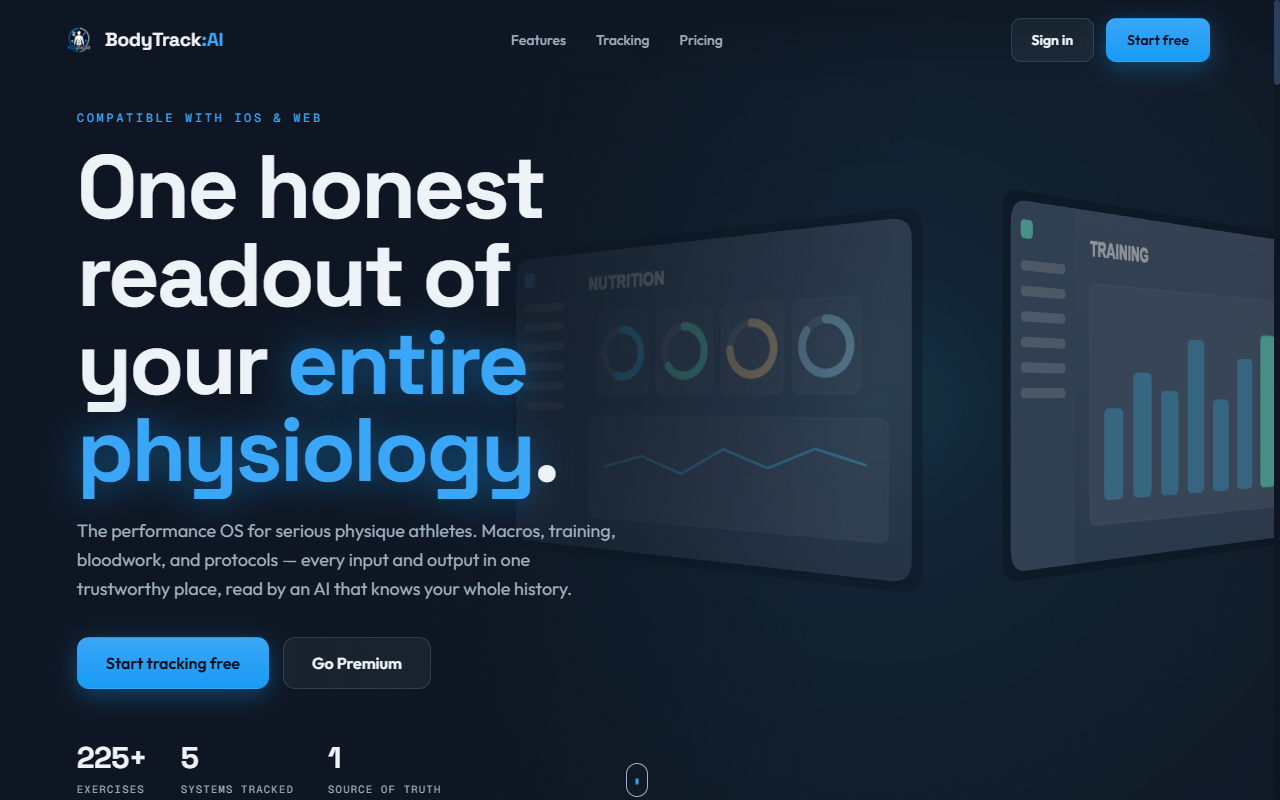
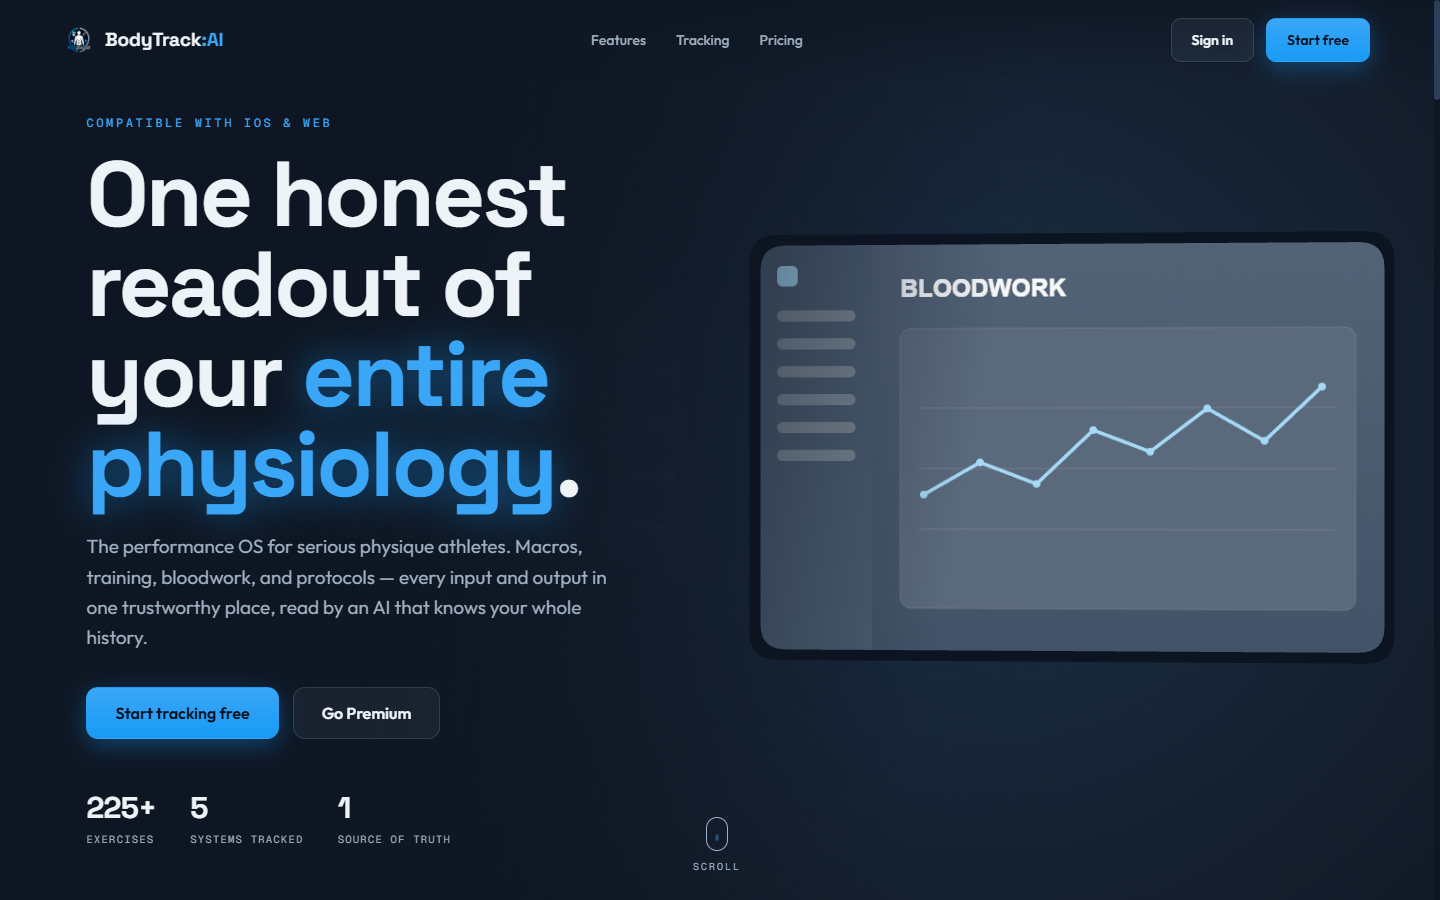
Refresh the library: all nine current projects, live repos, new screenshots

diff --git a/projects.html b/projects.html
@@ -75,7 +75,7 @@
               <img src="./media/autopilot-dashboard.png" alt="Autopilot for Windows dashboard" width="1280" height="800" loading="lazy" draggable="false" />
             </span>
             <span class="card-info">
-              <span class="lib-status">Active &middot; private build</span>
+              <span class="lib-status">Active &middot; open source</span>
               <span class="card-name">Autopilot for Windows</span>
               <span class="card-desc">Automated Twitch &rarr; Shorts pipeline with a GUI for everything.</span>
               <span class="lib-open">Open project &rarr;</span>
@@ -87,7 +87,7 @@
               <img src="./media/storyloom-hub.png" alt="The Storyloom hub with workflow templates" width="1280" height="800" loading="lazy" draggable="false" />
             </span>
             <span class="card-info">
-              <span class="lib-status">Active &middot; private build</span>
+              <span class="lib-status">Active &middot; open source</span>
               <span class="card-name">Storyloom</span>
               <span class="card-desc">An AI media hub &mdash; one node canvas for 2D, 3D, storyboard, and previz.</span>
               <span class="lib-open">Open project &rarr;</span>
@@ -96,11 +96,11 @@
 
           <button class="lib-card" data-dialog="dlg-sigil" type="button">
             <span class="card-thumb">
-              <img src="./media/sigil-tabletop.png" alt="Sigil multiplayer tabletop lobby" width="1280" height="800" loading="lazy" draggable="false" />
+              <img src="./media/sigil-landing.png" alt="Sigil multiplayer tabletop landing" width="1280" height="800" loading="lazy" draggable="false" />
             </span>
             <span class="card-info">
               <span class="lib-status">Playable &middot; open source</span>
-              <span class="card-name">Magic Table Tracker</span>
+              <span class="card-name">Sigil</span>
               <span class="card-desc">Online MTG tabletop &mdash; hidden zones enforced by Postgres.</span>
               <span class="lib-open">Open project &rarr;</span>
             </span>
@@ -112,8 +112,8 @@
             </span>
             <span class="card-info">
               <span class="lib-status">In development &middot; open source</span>
-              <span class="card-name">BodyTracker</span>
-              <span class="card-desc">Nutrition, lifts, bloodwork, and body metrics &mdash; web + iOS.</span>
+              <span class="card-name">BodyTrack:AI</span>
+              <span class="card-desc">Nutrition, lifts, bloodwork, and body metrics &mdash; web + iOS, read by an AI coach.</span>
               <span class="lib-open">Open project &rarr;</span>
             </span>
           </button>
@@ -131,14 +131,25 @@
           </button>
 
           <button class="lib-card" data-dialog="dlg-finance" type="button">
-            <span class="card-thumb card-thumb-type">
-              <span class="type-letter">F.</span>
-              <span class="type-stack">Next.js &middot; Local-first &middot; TypeScript</span>
+            <span class="card-thumb">
+              <img src="./media/morrow-overview.png" alt="Morrow overview with Safe to Spend" width="1280" height="800" loading="lazy" draggable="false" />
             </span>
             <span class="card-info">
-              <span class="lib-status">Active &middot; private build</span>
-              <span class="card-name">Finance Hub</span>
-              <span class="card-desc">A local-first personal-finance OS &mdash; subscriptions, spending, and insights.</span>
+              <span class="lib-status">Active &middot; open source</span>
+              <span class="card-name">Morrow</span>
+              <span class="card-desc">A calm personal-finance SaaS &mdash; spending, subscriptions, budgets, and Safe to Spend.</span>
+              <span class="lib-open">Open project &rarr;</span>
+            </span>
+          </button>
+
+          <button class="lib-card" data-dialog="dlg-agentic" type="button">
+            <span class="card-thumb">
+              <img src="./media/agentic-kanban.png" alt="Agentic OS Kanban command center" width="1280" height="800" loading="lazy" draggable="false" />
+            </span>
+            <span class="card-info">
+              <span class="lib-status">v0.3.0 &middot; open source</span>
+              <span class="card-name">Agentic OS</span>
+              <span class="card-desc">A local-first command center for coordinating multiple frontier-model agents.</span>
               <span class="lib-open">Open project &rarr;</span>
             </span>
           </button>
@@ -192,7 +203,7 @@
     <dialog class="project-dialog" id="dlg-autopilot" aria-labelledby="ttl-autopilot">
       <div class="dialog-inner">
         <div class="dialog-head">
-          <p class="eyebrow">Active &middot; private build</p>
+          <p class="eyebrow">Active &middot; open source</p>
           <button class="dialog-close" type="button" aria-label="Close">&times;</button>
         </div>
         <h3 id="ttl-autopilot">Autopilot for Windows</h3>
@@ -219,7 +230,7 @@
         </p>
         <p class="dialog-stack">Python &middot; FastAPI &middot; React &middot; FFmpeg &middot; Whisper</p>
         <div class="dialog-actions">
-          <span class="inline-link" style="text-decoration: none; cursor: default;">runs locally &mdash; not published</span>
+          <a class="button button-primary" href="https://github.com/colemclauchlan/autopilot-windows" target="_blank" rel="noreferrer">View source</a>
         </div>
       </div>
     </dialog>
@@ -227,11 +238,12 @@
     <dialog class="project-dialog" id="dlg-storyloom" aria-labelledby="ttl-storyloom">
       <div class="dialog-inner">
         <div class="dialog-head">
-          <p class="eyebrow">Active &middot; private build</p>
+          <p class="eyebrow">Active &middot; open source</p>
           <button class="dialog-close" type="button" aria-label="Close">&times;</button>
         </div>
         <h3 id="ttl-storyloom">Storyloom</h3>
         <div class="dialog-media">
+          <img src="./media/storyloom-graph.png" alt="The Storyloom graph canvas running a full pipeline" loading="lazy" />
           <img src="./media/storyloom-hub.png" alt="The Storyloom hub tab with workflow templates" loading="lazy" />
         </div>
         <p>
@@ -250,7 +262,7 @@
         </p>
         <p class="dialog-stack">React &middot; Vite &middot; React Flow &middot; Three.js &middot; Express</p>
         <div class="dialog-actions">
-          <span class="inline-link" style="text-decoration: none; cursor: default;">runs locally &mdash; not published</span>
+          <a class="button button-primary" href="https://github.com/colemclauchlan/storyloom" target="_blank" rel="noreferrer">View source</a>
         </div>
       </div>
     </dialog>
@@ -291,7 +303,7 @@
           <p class="eyebrow">In development &middot; open source</p>
           <button class="dialog-close" type="button" aria-label="Close">&times;</button>
         </div>
-        <h3 id="ttl-bodytracker">BodyTracker</h3>
+        <h3 id="ttl-bodytracker">BodyTrack:AI</h3>
         <div class="dialog-media">
           <img src="./media/bodytracker.png" alt="BodyTracker landing page" loading="lazy" />
         </div>
@@ -344,28 +356,61 @@
     <dialog class="project-dialog" id="dlg-finance" aria-labelledby="ttl-finance">
       <div class="dialog-inner">
         <div class="dialog-head">
-          <p class="eyebrow">Active &middot; private build</p>
+          <p class="eyebrow">Active &middot; open source</p>
           <button class="dialog-close" type="button" aria-label="Close">&times;</button>
         </div>
-        <h3 id="ttl-finance">Finance Hub</h3>
+        <h3 id="ttl-finance">Morrow</h3>
+        <div class="dialog-media">
+          <img src="./media/morrow-overview.png" alt="Morrow overview — Safe to Spend and upcoming obligations (sample data)" loading="lazy" />
+          <img src="./media/morrow-recurring.png" alt="Morrow recurring — subscriptions and renewal timing (sample data)" loading="lazy" />
+        </div>
         <p>
-          A local-first personal-finance OS. A subscription ledger tracks every
-          recurring charge &mdash; what it costs, when it renews, and the door out
-          &mdash; while a spending module pulls transactions from Gmail receipts
-          and imported bank CSVs, tracks credit-card status, and computes
-          analytics: overview, recurring, online vs. IRL services, a
-          &ldquo;cancel these and save&rdquo; callout, cards &amp; statements, and
-          insights.
+          A calm personal-finance SaaS: spending, recurring charges, budgets,
+          goals, accounts, investments, and an explainable Safe to Spend estimate
+          in one place. Safe to Spend is withheld unless a cash balance was seen
+          in the last 48 hours &mdash; the app would rather say nothing than
+          guess.
         </p>
         <p>
-          It runs entirely on your machine &mdash; no cloud, no accounts, no
-          telemetry. Bank CSVs are parsed and normalized to merchants locally, and
-          recurring charges are inferred only from real billing evidence, never
-          marketing email.
+          Two deliberate deployment modes: fully local (zero credentials, JSON
+          persistence, CSV import, the complete product UI) or SaaS &mdash;
+          Supabase Auth/Postgres tenancy, Stripe Billing, and consent-based
+          Canadian bank sync through Plaid with AES-sealed tokens. Production
+          fails closed unless the data mode is explicit.
         </p>
-        <p class="dialog-stack">Next.js &middot; TypeScript &middot; Local-first</p>
+        <p class="dialog-stack">Next.js &middot; Supabase &middot; Stripe &middot; Plaid</p>
         <div class="dialog-actions">
-          <span class="inline-link" style="text-decoration: none; cursor: default;">runs locally &mdash; private (handles real financial data)</span>
+          <a class="button button-primary" href="https://github.com/colemclauchlan/morrow" target="_blank" rel="noreferrer">View source</a>
+        </div>
+      </div>
+    </dialog>
+
+    <dialog class="project-dialog" id="dlg-agentic" aria-labelledby="ttl-agentic">
+      <div class="dialog-inner">
+        <div class="dialog-head">
+          <p class="eyebrow">v0.3.0 &middot; open source</p>
+          <button class="dialog-close" type="button" aria-label="Close">&times;</button>
+        </div>
+        <h3 id="ttl-agentic">Agentic OS</h3>
+        <div class="dialog-media">
+          <img src="./media/agentic-kanban.png" alt="Agentic OS Kanban command center in the phosphor-green terminal theme" loading="lazy" />
+        </div>
+        <p>
+          A local-first Windows desktop command center for coordinating several
+          frontier-model agents on one project: a Kanban task surface, active-agent
+          visibility, durable messages and decisions, and a GitHub-backed project
+          catalog &mdash; wrapped in a near-black, phosphor-green terminal theme.
+        </p>
+        <p>
+          The coordination kernel is the interesting part: reproducible context
+          packs for every run, atomic resource leases with fencing tokens so agents
+          can't clobber each other, an append-only hash-chained SQLite journal, and
+          encrypted (AES-256-GCM) profile sync so a second machine can adopt the
+          same setup through a private repo.
+        </p>
+        <p class="dialog-stack">Electron &middot; TypeScript &middot; React &middot; SQLite</p>
+        <div class="dialog-actions">
+          <a class="button button-primary" href="https://github.com/colemclauchlan/agentic-os" target="_blank" rel="noreferrer">View source</a>
         </div>
       </div>
     </dialog>

diff --git a/index.html b/index.html
@@ -94,13 +94,13 @@
 
           <p class="hero-rail" aria-label="Highlights">
             <span>TokenHub — live on Windows taskbars</span>
-            <span>4 open-source repos</span>
+            <span>10 open-source repos</span>
             <span>Twitch &rarr; Shorts, 4 platforms</span>
             <span>Web + iOS, one codebase</span>
           </p>
         </div>
 
-        <p class="stage-caption"><span class="stat-dot">&#9679;</span> online &middot; 7 projects active &middot; always building</p>
+        <p class="stage-caption"><span class="stat-dot">&#9679;</span> online &middot; 9 projects active &middot; always building</p>
       </section>
 
       <section class="section" id="work">
@@ -151,23 +151,23 @@
           </div>
           <div class="rail-viewport">
             <div class="rail-track" data-rail>
-              <div class="work-card">
+              <a class="work-card" href="https://github.com/colemclauchlan/autopilot-windows" target="_blank" rel="noreferrer">
                 <span class="card-thumb">
                   <img src="./media/autopilot-dashboard.png" alt="Autopilot for Windows dashboard" width="1280" height="800" loading="lazy" draggable="false" />
                 </span>
                 <span class="card-info">
                   <span class="card-name">Autopilot for Windows</span>
                   <span class="card-desc">Automated Twitch &rarr; Shorts pipeline, ported to Windows and rebuilt with a full GUI &mdash; agent missions, style cloning, 4-platform publishing.</span>
-                  <span class="card-foot">private build</span>
+                  <span class="card-foot">github.com/colemclauchlan/autopilot-windows</span>
                 </span>
-              </div>
+              </a>
 
               <a class="work-card" href="https://github.com/colemclauchlan/SigilMTG" target="_blank" rel="noreferrer">
                 <span class="card-thumb">
-                  <img src="./media/sigil-tabletop.png" alt="Magic Table Tracker virtual tabletop" width="1280" height="800" loading="lazy" draggable="false" />
+                  <img src="./media/sigil-landing.png" alt="Sigil virtual tabletop landing" width="1280" height="800" loading="lazy" draggable="false" />
                 </span>
                 <span class="card-info">
-                  <span class="card-name">Magic Table Tracker</span>
+                  <span class="card-name">Sigil</span>
                   <span class="card-desc">Online MTG tabletop &mdash; realtime multiplayer where hidden zones are enforced by Postgres, not the client.</span>
                   <span class="card-foot">github.com/colemclauchlan/SigilMTG</span>
                 </span>
@@ -178,8 +178,8 @@
                   <img src="./media/bodytracker.png" alt="BodyTracker landing page" width="1280" height="800" loading="lazy" draggable="false" />
                 </span>
                 <span class="card-info">
-                  <span class="card-name">BodyTracker</span>
-                  <span class="card-desc">Nutrition, lifts, bloodwork, and body metrics &mdash; web and iOS from one codebase.</span>
+                  <span class="card-name">BodyTrack:AI</span>
+                  <span class="card-desc">Nutrition, lifts, bloodwork, and body metrics &mdash; web and iOS from one codebase, read by an AI coach.</span>
                   <span class="card-foot">github.com/colemclauchlan/BodyTrackAI</span>
                 </span>
               </a>
@@ -195,28 +195,38 @@
                 </span>
               </a>
 
-              <div class="work-card">
+              <a class="work-card" href="https://github.com/colemclauchlan/storyloom" target="_blank" rel="noreferrer">
                 <span class="card-thumb">
-                  <img src="./media/storyloom-hub.png" alt="The Storyloom AI node canvas hub" width="1280" height="800" loading="lazy" draggable="false" />
+                  <img src="./media/storyloom-graph.png" alt="The Storyloom AI node canvas graph" width="1280" height="800" loading="lazy" draggable="false" />
                 </span>
                 <span class="card-info">
                   <span class="card-name">Storyloom</span>
                   <span class="card-desc">An AI media hub &mdash; one node canvas for 2D, 3D, storyboard, and previz, wired into Blender and After Effects.</span>
-                  <span class="card-foot">private build</span>
+                  <span class="card-foot">github.com/colemclauchlan/storyloom</span>
                 </span>
-              </div>
+              </a>
 
-              <div class="work-card">
-                <span class="card-thumb card-thumb-type">
-                  <span class="type-letter">F.</span>
-                  <span class="type-stack">Next.js &middot; Local-first &middot; TypeScript</span>
+              <a class="work-card" href="https://github.com/colemclauchlan/agentic-os" target="_blank" rel="noreferrer">
+                <span class="card-thumb">
+                  <img src="./media/agentic-kanban.png" alt="Agentic OS Kanban command center" width="1280" height="800" loading="lazy" draggable="false" />
                 </span>
                 <span class="card-info">
-                  <span class="card-name">Finance Hub</span>
-                  <span class="card-desc">A local-first personal-finance OS &mdash; subscription ledger, spending analytics, and bank-CSV import.</span>
-                  <span class="card-foot">private build</span>
+                  <span class="card-name">Agentic OS</span>
+                  <span class="card-desc">A local-first command center for multi-agent projects &mdash; Kanban tasks, resource leases, and a hash-chained work journal.</span>
+                  <span class="card-foot">github.com/colemclauchlan/agentic-os</span>
                 </span>
-              </div>
+              </a>
+
+              <a class="work-card" href="https://github.com/colemclauchlan/morrow" target="_blank" rel="noreferrer">
+                <span class="card-thumb">
+                  <img src="./media/morrow-overview.png" alt="Morrow overview with Safe to Spend" width="1280" height="800" loading="lazy" draggable="false" />
+                </span>
+                <span class="card-info">
+                  <span class="card-name">Morrow</span>
+                  <span class="card-desc">A calm personal-finance SaaS &mdash; spending, subscriptions, budgets, goals, and an explainable Safe to Spend.</span>
+                  <span class="card-foot">github.com/colemclauchlan/morrow</span>
+                </span>
+              </a>
 
               <a class="work-card" href="https://tokenhub-ten.vercel.app" target="_blank" rel="noreferrer">
                 <span class="card-thumb">
@@ -254,6 +264,18 @@
                 <span class="repo-desc">Cross-platform performance tracking. Next.js + Supabase; ships to web and iOS from one codebase.</span>
               </a>
             </li>
+            <li>
+              <a class="repo-link" href="https://github.com/colemclauchlan/autopilot-windows" target="_blank" rel="noreferrer">
+                <span class="repo-id"><span class="repo-name">autopilot-windows</span><span class="repo-meta">Python</span></span>
+                <span class="repo-desc">Automated Twitch &rarr; Shorts pipeline &mdash; discovery, AI scoring, vertical edit with karaoke subtitles, 4-platform publishing.</span>
+              </a>
+            </li>
+            <li>
+              <a class="repo-link" href="https://github.com/colemclauchlan/storyloom" target="_blank" rel="noreferrer">
+                <span class="repo-id"><span class="repo-name">storyloom</span><span class="repo-meta">TypeScript</span></span>
+                <span class="repo-desc">Visual node canvas for AI image / video / 3D / audio &mdash; storyboard-to-video pipelines with Blender &amp; AE bridges.</span>
+              </a>
+            </li>
           </ul>
           <ul class="repo-list">
             <li>
@@ -266,6 +288,18 @@
               <a class="repo-link" href="https://github.com/colemclauchlan/SigilMTG" target="_blank" rel="noreferrer">
                 <span class="repo-id"><span class="repo-name">SigilMTG</span><span class="repo-meta">JavaScript</span></span>
                 <span class="repo-desc">MTG table tracker and virtual tabletop. Vanilla JS, no build step; Supabase realtime multiplayer.</span>
+              </a>
+            </li>
+            <li>
+              <a class="repo-link" href="https://github.com/colemclauchlan/morrow" target="_blank" rel="noreferrer">
+                <span class="repo-id"><span class="repo-name">morrow</span><span class="repo-meta">TypeScript</span></span>
+                <span class="repo-desc">Calm personal-finance SaaS &mdash; spending, subscriptions, budgets, goals, and an explainable Safe to Spend.</span>
+              </a>
+            </li>
+            <li>
+              <a class="repo-link" href="https://github.com/colemclauchlan/agentic-os" target="_blank" rel="noreferrer">
+                <span class="repo-id"><span class="repo-name">agentic-os</span><span class="repo-meta">TypeScript</span></span>
+                <span class="repo-desc">Local-first Windows command center for coordinating multiple frontier-model agents on one project.</span>
               </a>
             </li>
           </ul>

diff --git a/README.md b/README.md
@@ -1,0 +1,13 @@
+# cole-portfolio
+
+Personal portfolio — a static site with a CRT-terminal aesthetic covering everything currently on the bench: TokenHub, Autopilot, Storyloom, Sigil, BodyTrack:AI, HouseTab, Morrow, and Agentic OS.
+
+**Live:** https://cole-portfolio-wheat.vercel.app
+
+![Project library](media/site-projects.png)
+
+Plain HTML/CSS/JS — no framework, no build step. An animated ASCII sky, a spinning ASCII donut, and per-project dialogs with screenshots and source links.
+
+```bash
+npx serve .   # local preview
+```